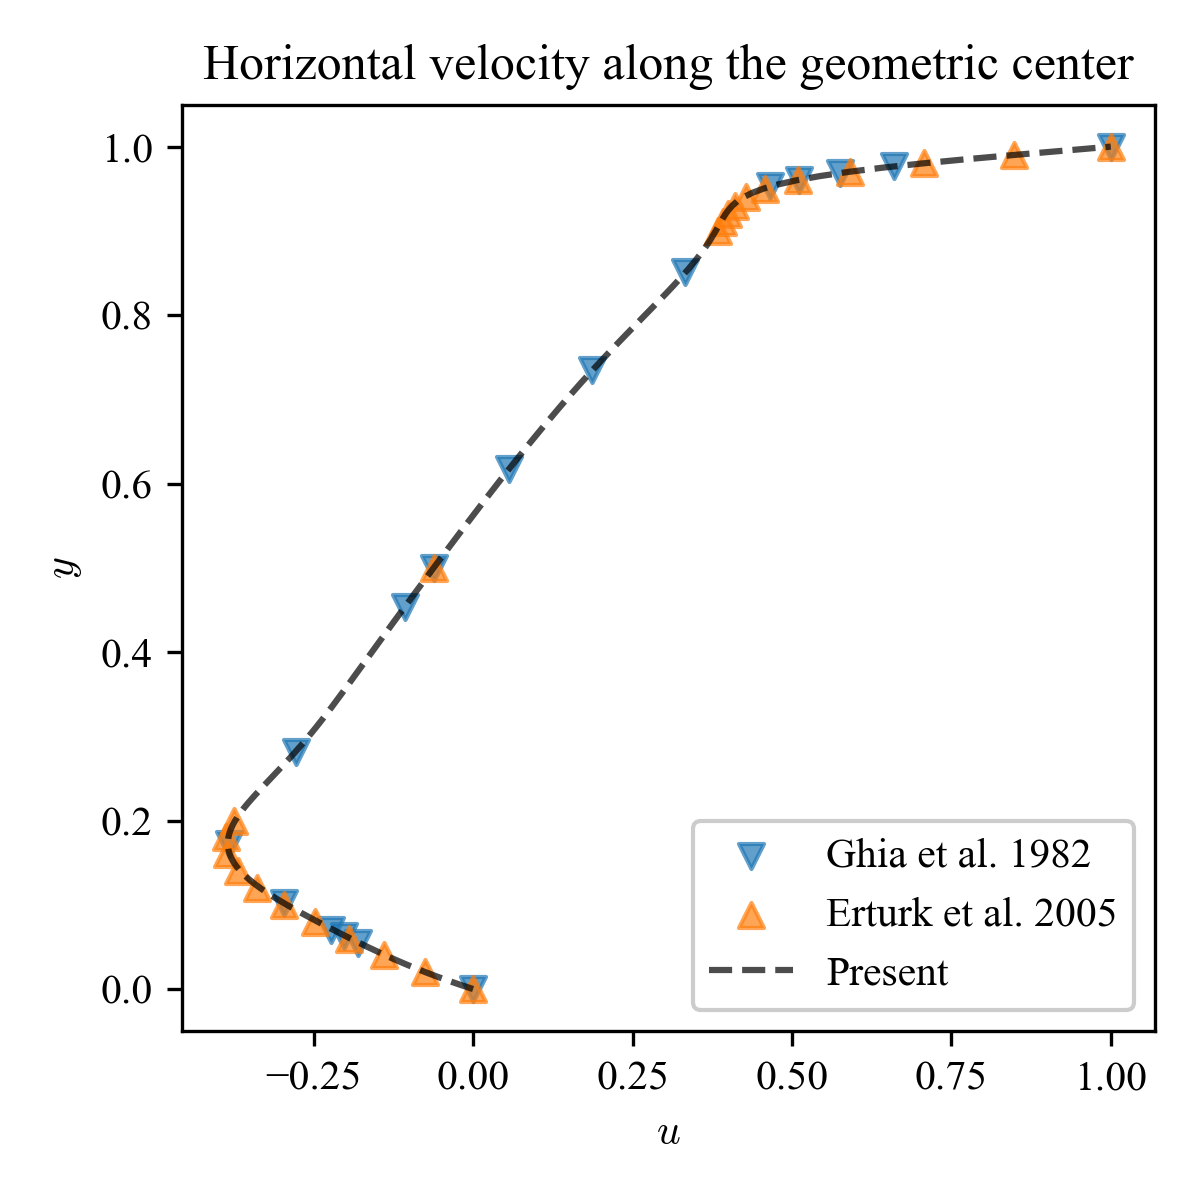
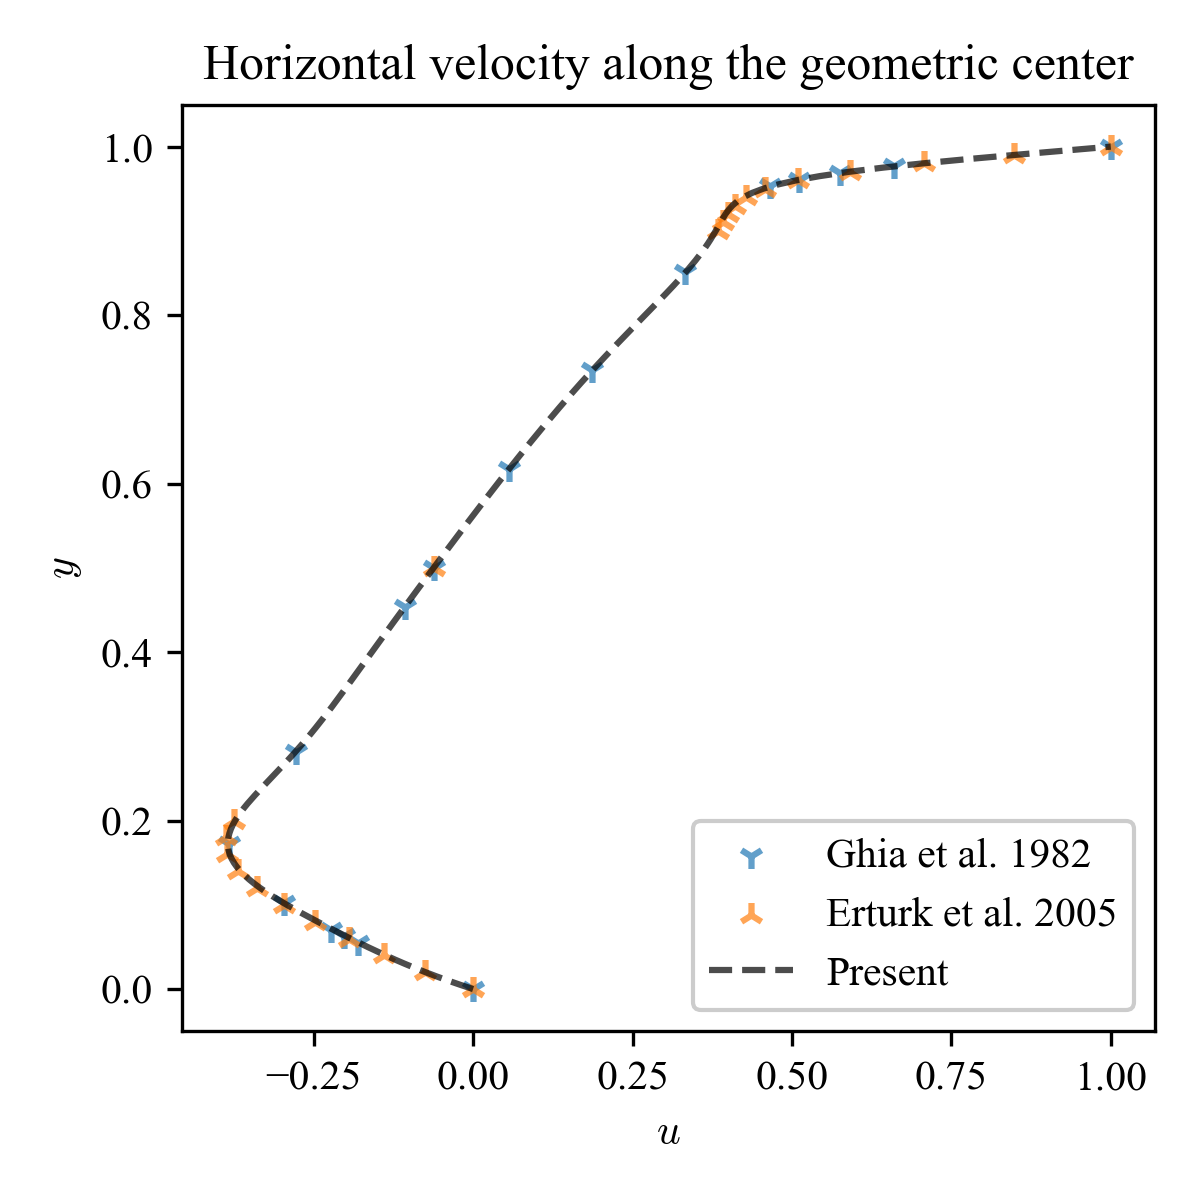
update Arakawa-A 1st order upwind

diff --git a/02_Arakawa_C/04_Kawamura_Kuwahara/main.py b/02_Arakawa_C/04_Kawamura_Kuwahara/main.py
@@ -477,10 +477,10 @@ def main(args):
             # u at geometric center
             u_g = 1. / 2. * (u[1:, int(Ny/2)] + u[:-1, int(Ny/2)])
             plt.figure(figsize=(4, 4))
-            plt.scatter(df_Ghia["u"],   df_Ghia["y"],   alpha=.7, marker="v", label="Ghia et al. 1982")
-            plt.scatter(df_Erturk["u"], df_Erturk["y"], alpha=.7, marker="^", label="Erturk et al. 2005")
+            plt.scatter(df_Ghia["u"],   df_Ghia["y"],   alpha=.7, marker="1", label="Ghia et al. 1982")
+            plt.scatter(df_Erturk["u"], df_Erturk["y"], alpha=.7, marker="2", label="Erturk et al. 2005")
             plt.plot(u_g[1:-1], y[1:-1], alpha=.7, color="k", ls="--", label="Present")
-            plt.legend()
+            plt.legend(loc="lower right")
             plt.xlabel(r"$u$")
             plt.ylabel(r"$y$")
             plt.title(f"Horizontal velocity along the geometric center")
@@ -492,10 +492,10 @@ def main(args):
             # v at geometric center
             v_g = 1. / 2. * (v[int(Nx/2), 1:] + v[int(Nx/2), :-1])
             plt.figure(figsize=(4, 4))
-            plt.scatter(df_Ghia["x"],   df_Ghia["v"],   alpha=.7, marker="v", label="Ghia et al. 1982")
-            plt.scatter(df_Erturk["x"], df_Erturk["v"], alpha=.7, marker="^", label="Erturk et al. 2005")
+            plt.scatter(df_Ghia["x"],   df_Ghia["v"],   alpha=.7, marker="1", label="Ghia et al. 1982")
+            plt.scatter(df_Erturk["x"], df_Erturk["v"], alpha=.7, marker="2", label="Erturk et al. 2005")
             plt.plot(x[1:-1], v_g[1:-1], alpha=.7, color="k", ls="--", label="Present")
-            plt.legend()
+            plt.legend(loc="upper right")
             plt.xlabel(r"$x$")
             plt.ylabel(r"$v$")
             plt.title(f"Vertical velocity along the geometric center")

diff --git a/02_Arakawa_C/01_Lax_Wendroff/main.py b/02_Arakawa_C/01_Lax_Wendroff/main.py
@@ -449,8 +449,8 @@ def main(args):
             u_itpl = 1. / 2. * (u[1:, :] + u[:-1, :])
             v_itpl = 1. / 2. * (v[:, 1:] + v[:, :-1])
             plt.figure(figsize=(4, 4))
-            plt.scatter(df_Ghia["u"],   df_Ghia["y"],   alpha=.7, marker="v", label="Ghia et al. 1982")
-            plt.scatter(df_Erturk["u"], df_Erturk["y"], alpha=.7, marker="^", label="Erturk et al. 2005")
+            plt.scatter(df_Ghia["u"],   df_Ghia["y"],   alpha=.7, marker="1", label="Ghia et al. 1982")
+            plt.scatter(df_Erturk["u"], df_Erturk["y"], alpha=.7, marker="2", label="Erturk et al. 2005")
             plt.plot(u_itpl[:, int(Ny/2)], y, alpha=.7, color="k", ls="--", label="Present")
             plt.legend(loc="lower right")
             plt.xlabel(r"$u$")
@@ -462,8 +462,8 @@ def main(args):
             plt.close()
 
             plt.figure(figsize=(4, 4))
-            plt.scatter(df_Ghia["x"],   df_Ghia["v"],   alpha=.7, marker="v", label="Ghia et al. 1982")
-            plt.scatter(df_Erturk["x"], df_Erturk["v"], alpha=.7, marker="^", label="Erturk et al. 2005")
+            plt.scatter(df_Ghia["x"],   df_Ghia["v"],   alpha=.7, marker="1", label="Ghia et al. 1982")
+            plt.scatter(df_Erturk["x"], df_Erturk["v"], alpha=.7, marker="2", label="Erturk et al. 2005")
             plt.plot(x, v_itpl[int(Nx/2), :], alpha=.7, color="k", ls="--", label="Present")
             plt.legend(loc="upper right")
             plt.xlabel(r"$x$")

diff --git a/02_Arakawa_C/00_1st_order_upwind/main.py b/02_Arakawa_C/00_1st_order_upwind/main.py
@@ -420,8 +420,8 @@ def main(args):
 
             # compare with reference solutions
             plt.figure(figsize=(4, 4))
-            plt.scatter(df_Ghia["u"],   df_Ghia["y"],   alpha=.7, marker="v", label="Ghia et al. 1982")
-            plt.scatter(df_Erturk["u"], df_Erturk["y"], alpha=.7, marker="^", label="Erturk et al. 2005")
+            plt.scatter(df_Ghia["u"],   df_Ghia["y"],   alpha=.7, marker="1", label="Ghia et al. 1982")
+            plt.scatter(df_Erturk["u"], df_Erturk["y"], alpha=.7, marker="2", label="Erturk et al. 2005")
             plt.plot(u[:-1, int(Ny/2)], y, alpha=.7, color="k", ls="--", label="Present")
             plt.legend()
             plt.xlabel(r"$u$")
@@ -433,8 +433,8 @@ def main(args):
             plt.close()
 
             plt.figure(figsize=(4, 4))
-            plt.scatter(df_Ghia["x"],   df_Ghia["v"],   alpha=.7, marker="v", label="Ghia et al. 1982")
-            plt.scatter(df_Erturk["x"], df_Erturk["v"], alpha=.7, marker="^", label="Erturk et al. 2005")
+            plt.scatter(df_Ghia["x"],   df_Ghia["v"],   alpha=.7, marker="1", label="Ghia et al. 1982")
+            plt.scatter(df_Erturk["x"], df_Erturk["v"], alpha=.7, marker="2", label="Erturk et al. 2005")
             plt.plot(x, v[int(Nx/2), :-1], alpha=.7, color="k", ls="--", label="Present")
             plt.legend()
             plt.xlabel(r"$x$")
